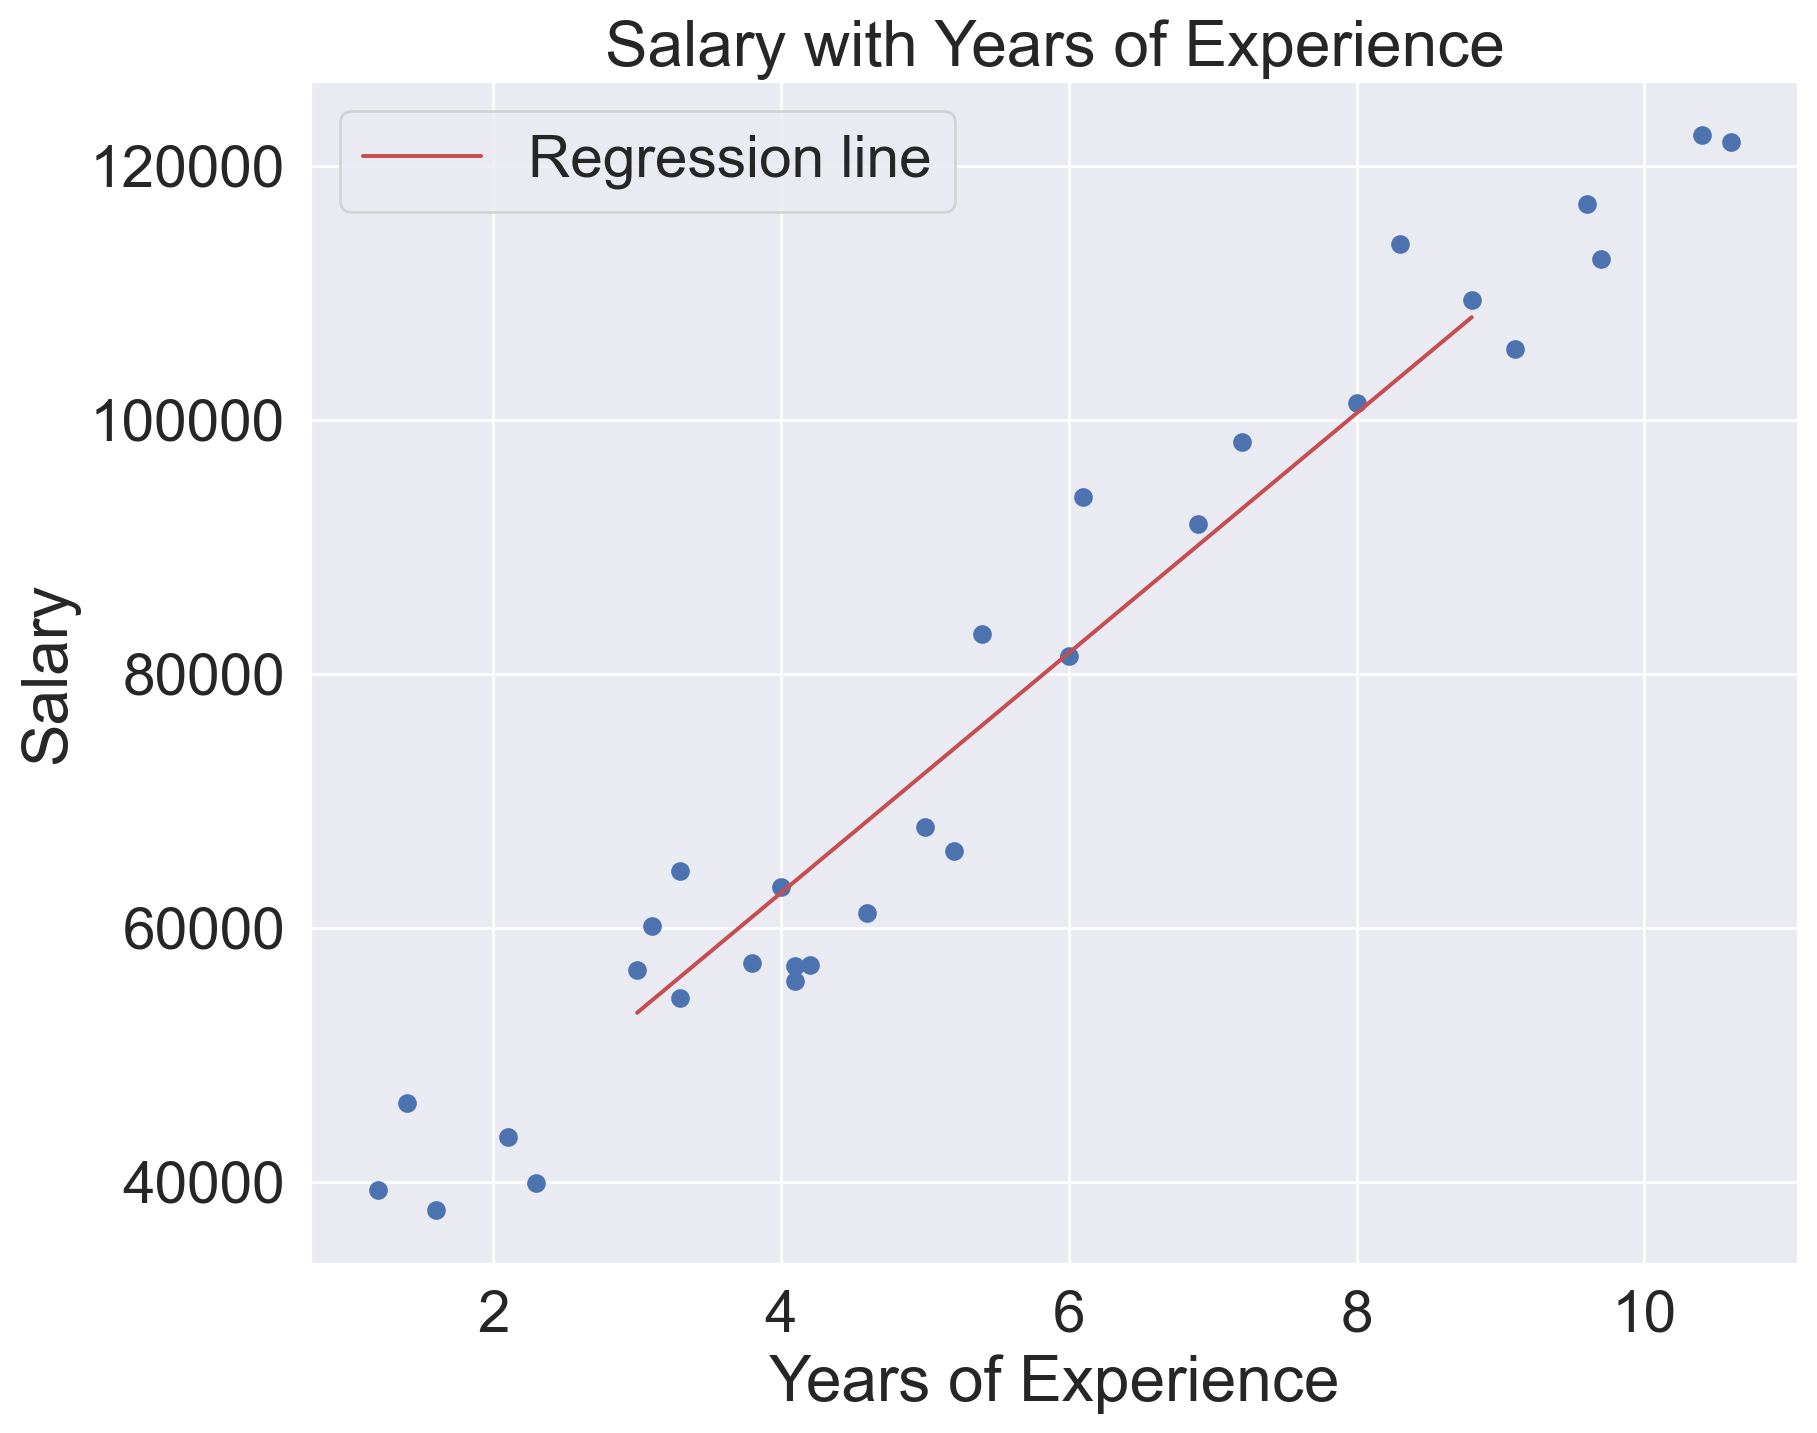
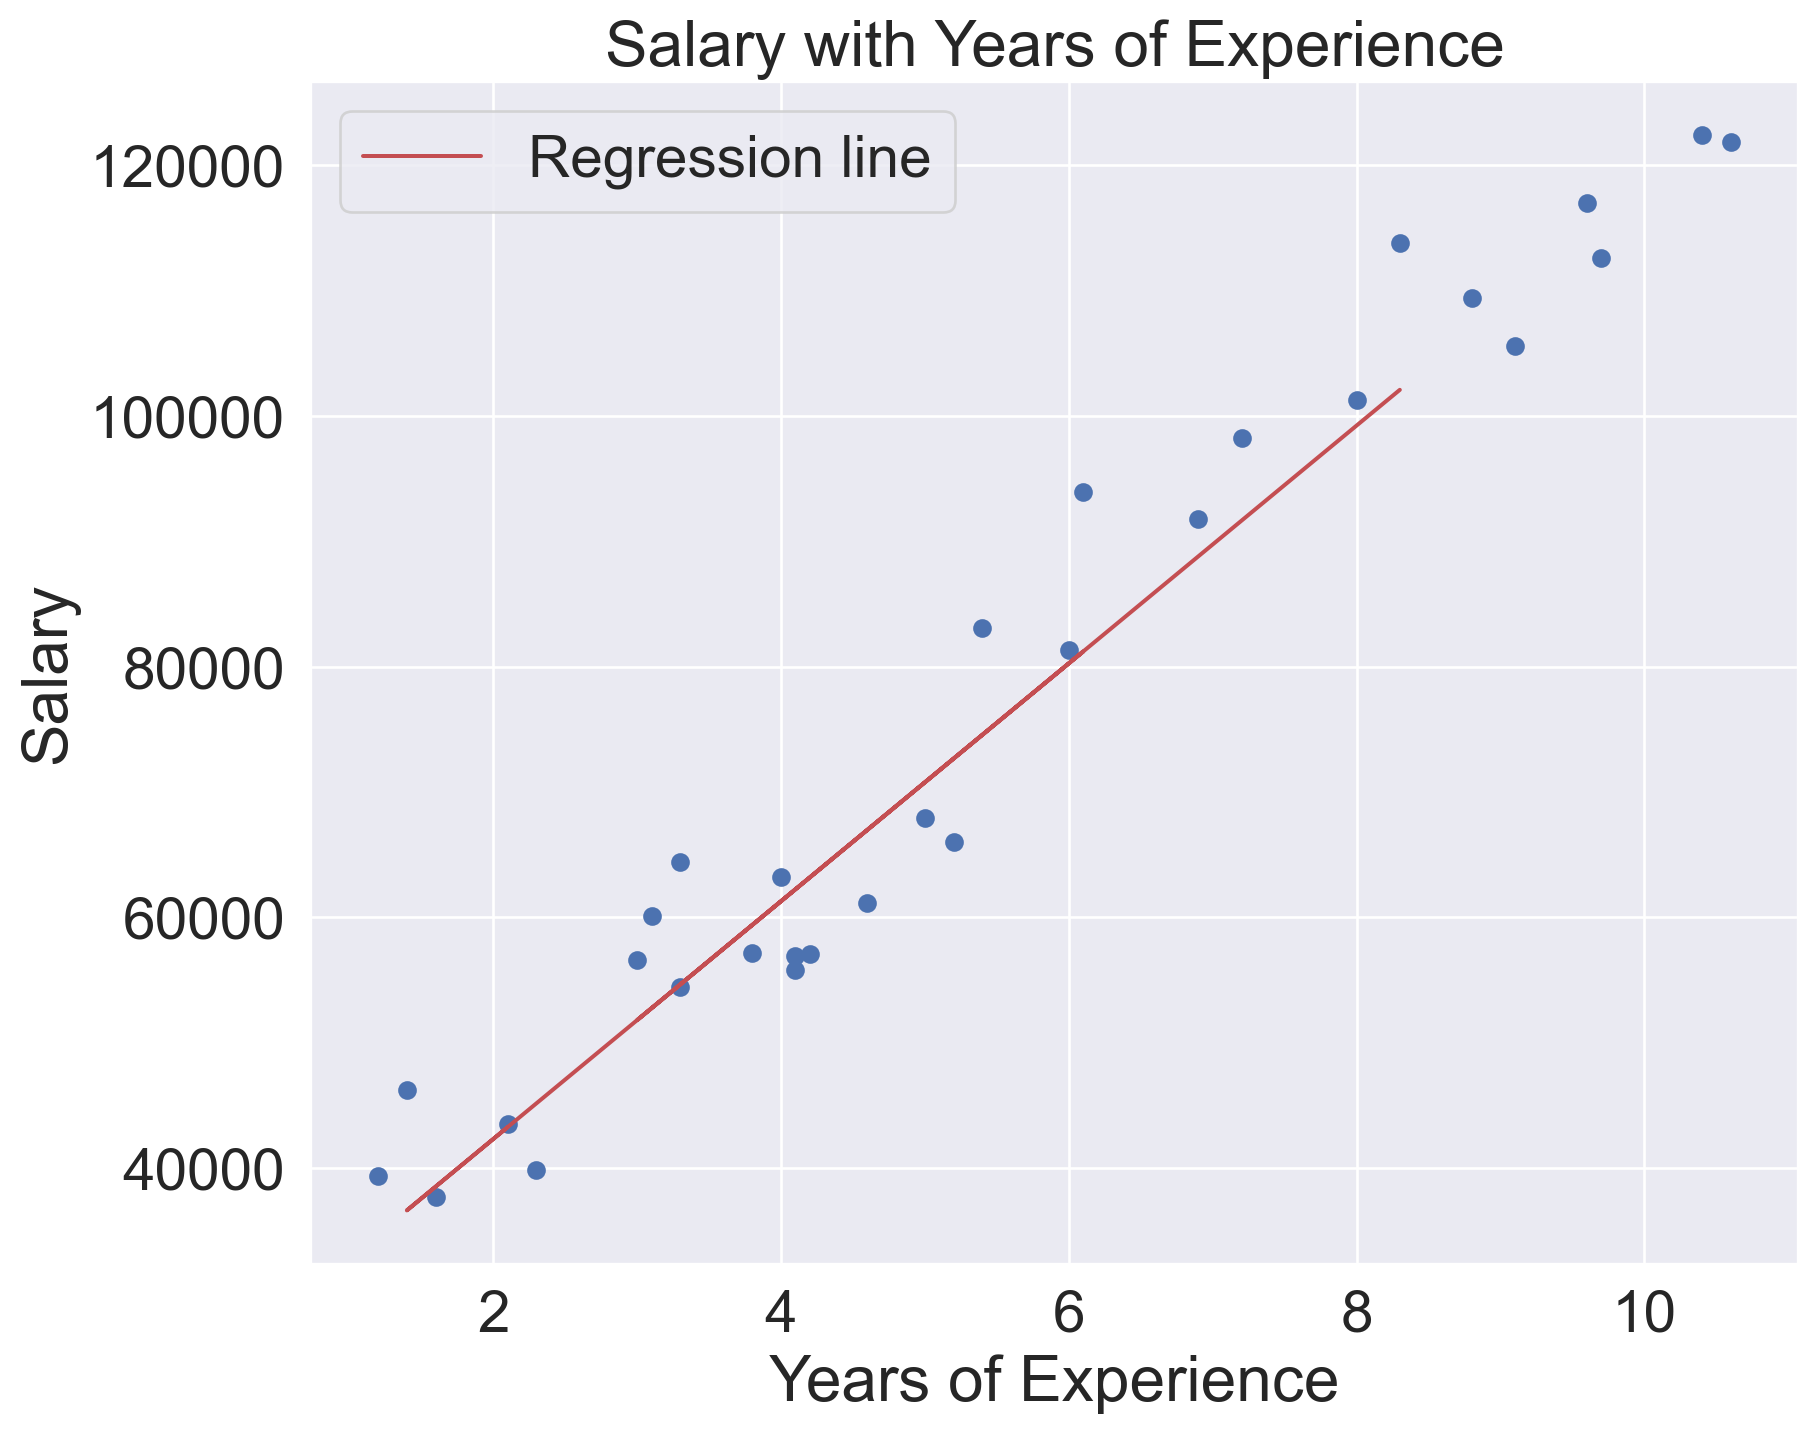
changes

diff --git a/docs/posts/Blog2/index.html b/docs/posts/Blog2/index.html
@@ -9,7 +9,7 @@
 <meta name="author" content="Shreyas Harathi">
 <meta name="dcterms.date" content="2023-12-04">
 
-<title>Shreyas Harathi - Salary Patterns</title>
+<title>Home - Salary Patterns</title>
 <style>
 code{white-space: pre-wrap;}
 span.smallcaps{font-variant: small-caps;}
@@ -111,7 +111,7 @@ pre > code.sourceCode > span > a:first-child::before { text-decoration: underlin
       <div class="navbar-container container-fluid">
       <div class="navbar-brand-container">
     <a class="navbar-brand" href="../../index.html">
-    <span class="navbar-title">Shreyas Harathi</span>
+    <span class="navbar-title">Home</span>
     </a>
   </div>
             <div id="quarto-search" class="" title="Search"></div>
@@ -365,11 +365,11 @@ dtype: int64</code></pre>
 <div class="sourceCode cell-code" id="cb18"><pre class="sourceCode python code-with-copy"><code class="sourceCode python"><span id="cb18-1"><a href="#cb18-1" aria-hidden="true" tabindex="-1"></a>y_preds<span class="op">=</span>lr.predict(x_test)</span>
 <span id="cb18-2"><a href="#cb18-2" aria-hidden="true" tabindex="-1"></a><span class="bu">print</span>(y_preds)</span></code><button title="Copy to Clipboard" class="code-copy-button"><i class="bi"></i></button></pre></div>
 <div class="cell-output cell-output-stdout">
-<pre><code>[[108062.12200338]
- [ 81622.0203339 ]
- [ 68401.96949916]
- [ 62736.23342712]
- [ 53293.33997374]]</code></pre>
+<pre><code>[[ 43270.64309794]
+ [ 36630.67179697]
+ [ 81213.33624632]
+ [ 51807.74905633]
+ [102081.81747793]]</code></pre>
 </div>
 </div>
 <div class="cell" data-execution_count="15">
@@ -392,9 +392,9 @@ dtype: int64</code></pre>
 <span id="cb21-2"><a href="#cb21-2" aria-hidden="true" tabindex="-1"></a><span class="bu">print</span>(<span class="st">"Mean Squared Error = "</span>, <span class="bu">str</span>(mean_squared_error(y_test, y_preds)))</span>
 <span id="cb21-3"><a href="#cb21-3" aria-hidden="true" tabindex="-1"></a><span class="bu">print</span>(<span class="st">"R-squared = "</span>, <span class="bu">str</span>(r2_score(y_test, y_preds)))</span></code><button title="Copy to Clipboard" class="code-copy-button"><i class="bi"></i></button></pre></div>
 <div class="cell-output cell-output-stdout">
-<pre><code>Mean Absolute Error =  2550.0588857625235
-Mean Squared Error =  13308016.274476083
-R-squared =  0.9648424282876367</code></pre>
+<pre><code>Mean Absolute Error =  7824.9564649012245
+Mean Squared Error =  82949167.4048336
+R-squared =  0.8945948379754207</code></pre>
 </div>
 </div>
 <p><strong>Conclusion</strong></p>

diff --git a/docs/index.html b/docs/index.html
@@ -7,7 +7,7 @@
 <meta name="viewport" content="width=device-width, initial-scale=1.0, user-scalable=yes">
 
 
-<title>Shreyas Harathi - Home</title>
+<title>Home - ML BLOGS</title>
 <style>
 code{white-space: pre-wrap;}
 span.smallcaps{font-variant: small-caps;}
@@ -105,7 +105,7 @@ ul.task-list li input[type="checkbox"] {
       <div class="navbar-container container-fluid">
       <div class="navbar-brand-container">
     <a class="navbar-brand" href="./index.html">
-    <span class="navbar-title">Shreyas Harathi</span>
+    <span class="navbar-title">Home</span>
     </a>
   </div>
             <div id="quarto-search" class="" title="Search"></div>
@@ -145,7 +145,7 @@ ul.task-list li input[type="checkbox"] {
 
 <header id="title-block-header" class="quarto-title-block default">
 <div class="quarto-title">
-<h1 class="title">Home</h1>
+<h1 class="title">ML BLOGS</h1>
 </div>
 
 

diff --git a/docs/posts/Blog1/index.html b/docs/posts/Blog1/index.html
@@ -9,7 +9,7 @@
 <meta name="author" content="Shreyas Harathi">
 <meta name="dcterms.date" content="2023-12-05">
 
-<title>Shreyas Harathi - Using Naive Bayes To Predict Poisonous Mushrooms</title>
+<title>Home - Using Naive Bayes To Predict Poisonous Mushrooms</title>
 <style>
 code{white-space: pre-wrap;}
 span.smallcaps{font-variant: small-caps;}
@@ -111,7 +111,7 @@ pre > code.sourceCode > span > a:first-child::before { text-decoration: underlin
       <div class="navbar-container container-fluid">
       <div class="navbar-brand-container">
     <a class="navbar-brand" href="../../index.html">
-    <span class="navbar-title">Shreyas Harathi</span>
+    <span class="navbar-title">Home</span>
     </a>
   </div>
             <div id="quarto-search" class="" title="Search"></div>

diff --git a/docs/posts/Blog5/index.html b/docs/posts/Blog5/index.html
@@ -9,7 +9,7 @@
 <meta name="author" content="Shreyas Harathi">
 <meta name="dcterms.date" content="2023-11-29">
 
-<title>Shreyas Harathi - Exploring Housing Data and Regression Models</title>
+<title>Home - Exploring Housing Data and Regression Models</title>
 <style>
 code{white-space: pre-wrap;}
 span.smallcaps{font-variant: small-caps;}
@@ -111,7 +111,7 @@ pre > code.sourceCode > span > a:first-child::before { text-decoration: underlin
       <div class="navbar-container container-fluid">
       <div class="navbar-brand-container">
     <a class="navbar-brand" href="../../index.html">
-    <span class="navbar-title">Shreyas Harathi</span>
+    <span class="navbar-title">Home</span>
     </a>
   </div>
             <div id="quarto-search" class="" title="Search"></div>

diff --git a/docs/posts/Blog6/index.html b/docs/posts/Blog6/index.html
@@ -9,7 +9,7 @@
 <meta name="author" content="Shreyas Harathi">
 <meta name="dcterms.date" content="2023-11-23">
 
-<title>Shreyas Harathi - Credit Card Fraud Detection</title>
+<title>Home - Credit Card Fraud Detection</title>
 <style>
 code{white-space: pre-wrap;}
 span.smallcaps{font-variant: small-caps;}
@@ -111,7 +111,7 @@ pre > code.sourceCode > span > a:first-child::before { text-decoration: underlin
       <div class="navbar-container container-fluid">
       <div class="navbar-brand-container">
     <a class="navbar-brand" href="../../index.html">
-    <span class="navbar-title">Shreyas Harathi</span>
+    <span class="navbar-title">Home</span>
     </a>
   </div>
             <div id="quarto-search" class="" title="Search"></div>

diff --git a/docs/posts/Blog3/index.html b/docs/posts/Blog3/index.html
@@ -9,7 +9,7 @@
 <meta name="author" content="Shreyas Harathi">
 <meta name="dcterms.date" content="2023-12-01">
 
-<title>Shreyas Harathi - Drug Classification</title>
+<title>Home - Drug Classification</title>
 <style>
 code{white-space: pre-wrap;}
 span.smallcaps{font-variant: small-caps;}
@@ -111,7 +111,7 @@ pre > code.sourceCode > span > a:first-child::before { text-decoration: underlin
       <div class="navbar-container container-fluid">
       <div class="navbar-brand-container">
     <a class="navbar-brand" href="../../index.html">
-    <span class="navbar-title">Shreyas Harathi</span>
+    <span class="navbar-title">Home</span>
     </a>
   </div>
             <div id="quarto-search" class="" title="Search"></div>

diff --git a/docs/posts/Blog4/index.html b/docs/posts/Blog4/index.html
@@ -9,7 +9,7 @@
 <meta name="author" content="Shreyas Harathi">
 <meta name="dcterms.date" content="2023-11-29">
 
-<title>Shreyas Harathi - K-Means Clustering</title>
+<title>Home - K-Means Clustering</title>
 <style>
 code{white-space: pre-wrap;}
 span.smallcaps{font-variant: small-caps;}
@@ -108,7 +108,7 @@ pre > code.sourceCode > span > a:first-child::before { text-decoration: underlin
       <div class="navbar-container container-fluid">
       <div class="navbar-brand-container">
     <a class="navbar-brand" href="../../index.html">
-    <span class="navbar-title">Shreyas Harathi</span>
+    <span class="navbar-title">Home</span>
     </a>
   </div>
             <div id="quarto-search" class="" title="Search"></div>

diff --git a/docs/about.html b/docs/about.html
@@ -7,7 +7,7 @@
 <meta name="viewport" content="width=device-width, initial-scale=1.0, user-scalable=yes">
 
 
-<title>Shreyas Harathi - About</title>
+<title>Home - About</title>
 <style>
 code{white-space: pre-wrap;}
 span.smallcaps{font-variant: small-caps;}
@@ -71,7 +71,7 @@ ul.task-list li input[type="checkbox"] {
       <div class="navbar-container container-fluid">
       <div class="navbar-brand-container">
     <a class="navbar-brand" href="./index.html">
-    <span class="navbar-title">Shreyas Harathi</span>
+    <span class="navbar-title">Home</span>
     </a>
   </div>
             <div id="quarto-search" class="" title="Search"></div>
